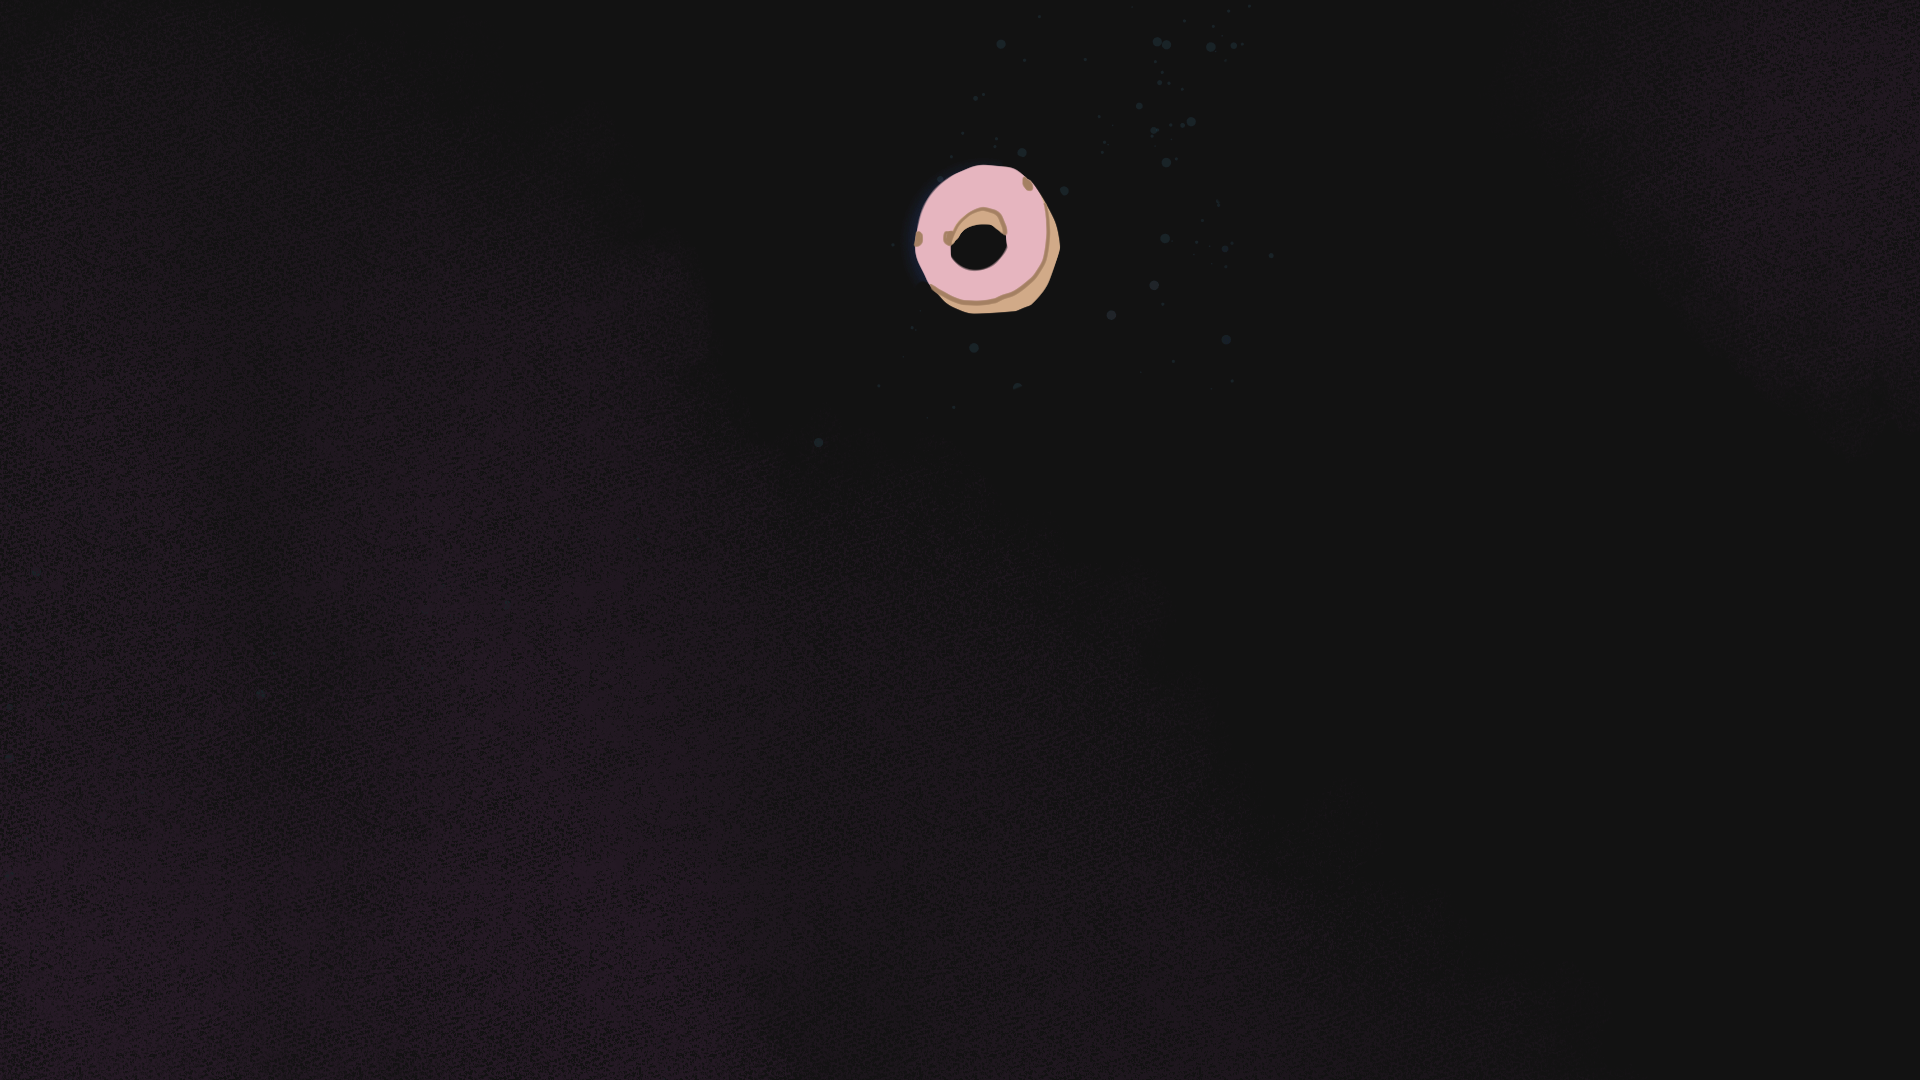
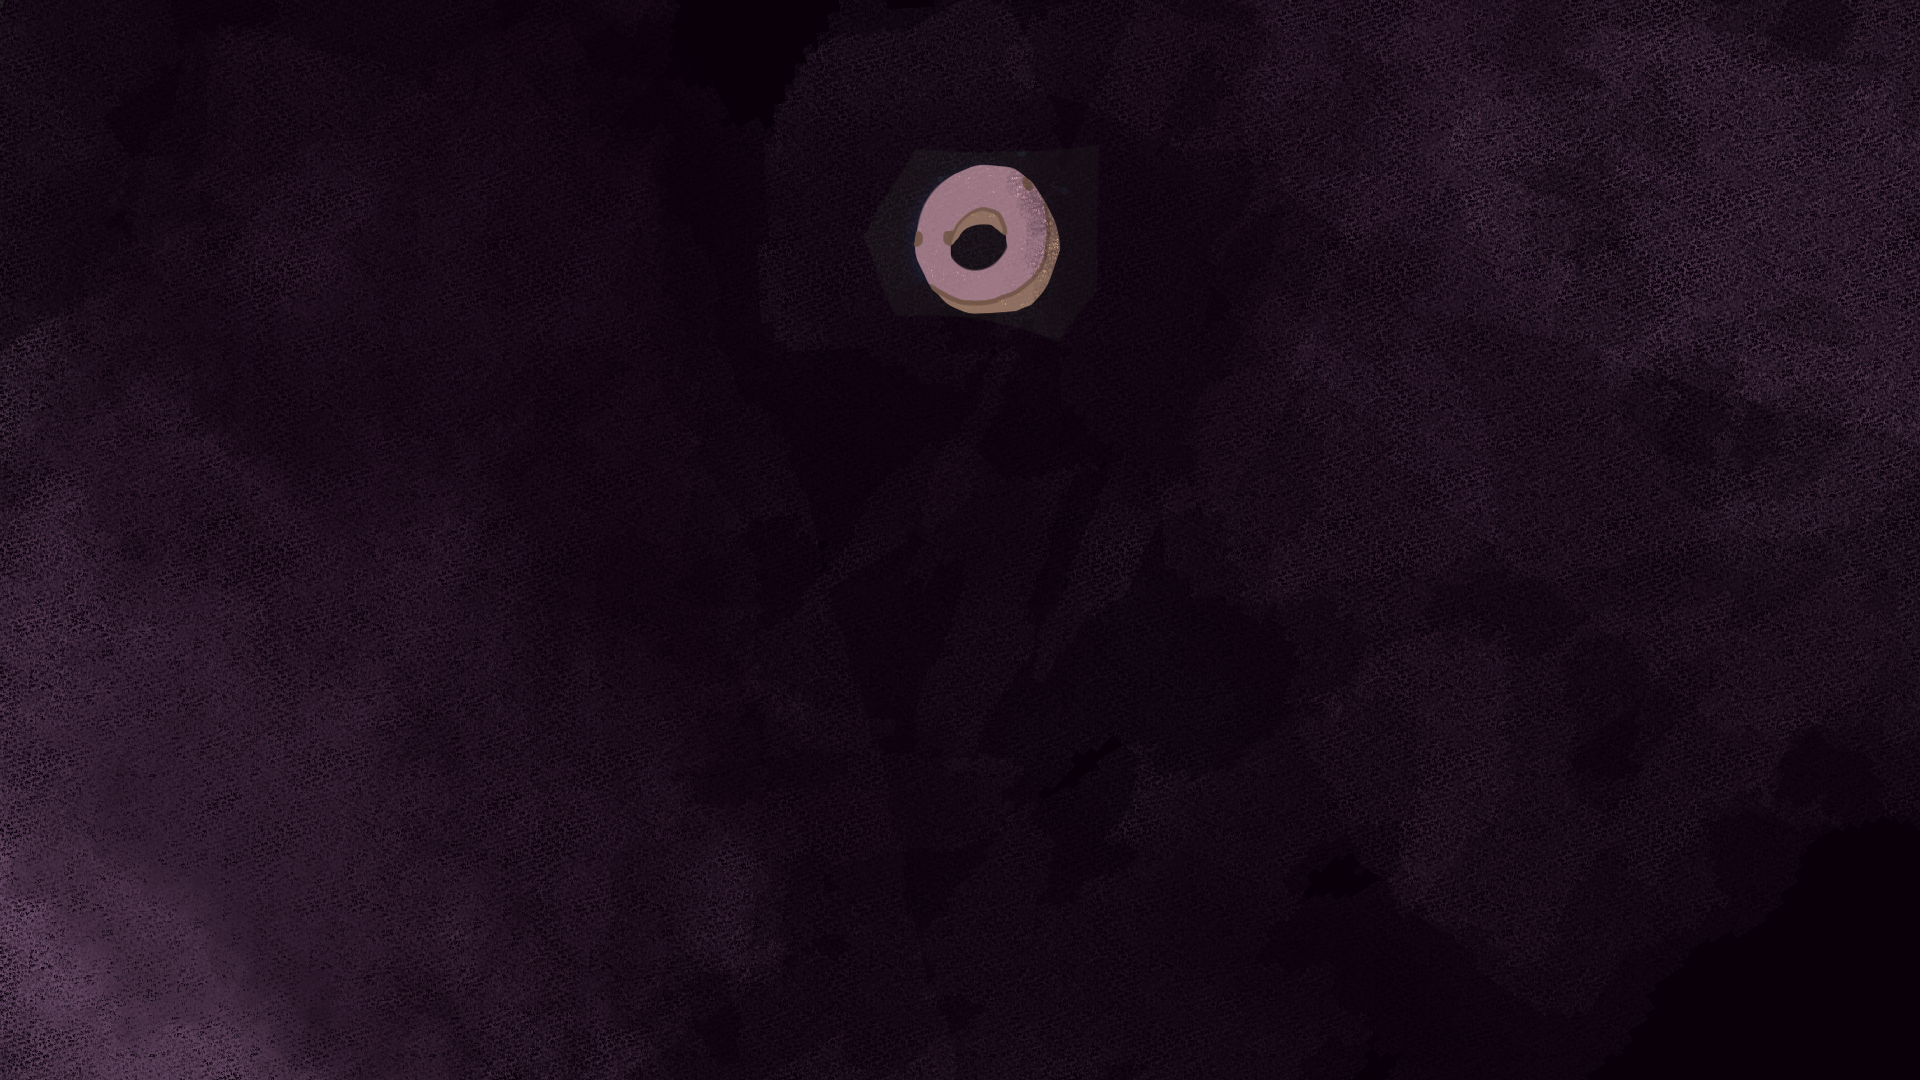
Some edition

diff --git a/src/App.css b/src/App.css
@@ -244,7 +244,7 @@ nav.navbar .navbar-toggler[aria-expanded="true"] .navbar-toggler-icon {
   font-weight: 700;
   letter-spacing: 0.8px;
   padding: 8px 10px;
-  background: linear-gradient(90.21deg, rgba(170, 54, 124, 0.5) -5.91%, rgba(74, 47, 189, 0.5) 111.58%);
+  background: #dfa3ad;
   border: 1px solid rgba(255, 255, 255, 0.5);
   font-size: 20px;
   margin-bottom: 16px;
@@ -391,7 +391,7 @@ nav.navbar .navbar-toggler[aria-expanded="true"] .navbar-toggler-icon {
     position: absolute;
     width: 0;
     height: 100%;
-    background: linear-gradient(90.21deg, #AA367C -5.91%, #4A2FBD 111.58%);
+    background: #dfa3ad;
     top: 0;
     left: 0;
     z-index: -1;
@@ -423,7 +423,7 @@ nav.navbar .navbar-toggler[aria-expanded="true"] .navbar-toggler-icon {
 }
 .proj-imgbx::before {
   content: "";
-  background: linear-gradient(90.21deg, #AA367C -5.91%, #4A2FBD 111.58%);
+  background: #dfa3ad;
   opacity: 0.85;
   position: absolute;
   width: 100%;
@@ -470,7 +470,7 @@ nav.navbar .navbar-toggler[aria-expanded="true"] .navbar-toggler-icon {
 
 /************ Projects Css ************/
 .contact {
-  background: linear-gradient(90.21deg, #AA367C -5.91%, #4A2FBD 111.58%);
+  background: #dfa3ad;
   padding: 60px 0 200px 0;
 }
 .contact img {
@@ -573,7 +573,7 @@ nav.navbar .navbar-toggler[aria-expanded="true"] .navbar-toggler-icon {
 }
 .new-email-bx::before {
   content: "";
-  background: linear-gradient(90.21deg, #AA367C -5.91%, #4A2FBD 111.58%);
+  background: #dfa3ad;
   border-radius: 20px;
   position: absolute;
   z-index: -1;
@@ -602,7 +602,7 @@ nav.navbar .navbar-toggler[aria-expanded="true"] .navbar-toggler-icon {
   padding: 0 15px;
 }
 .new-email-bx button {
-  background: linear-gradient(90.21deg, #AA367C -5.91%, #4A2FBD 111.58%);
+  background: #dfa3ad;
   padding: 20px 65px;
   color: #fff;
   font-weight: 500;

diff --git a/src/components/Skills.js b/src/components/Skills.js
@@ -1,6 +1,6 @@
-import meter1 from "../assets/img/meter1.svg";
-import meter2 from "../assets/img/meter2.svg";
-import meter3 from "../assets/img/meter3.svg";
+import meter1 from "../assets/img/capybara-hamburger.svg";
+import meter2 from "../assets/img/capybara.svg";
+import meter3 from "../assets/img/capybara-cricut.svg";
 import Carousel from 'react-multi-carousel';
 import 'react-multi-carousel/lib/styles.css';
 import arrow1 from "../assets/img/arrow1.svg";
@@ -35,7 +35,7 @@ export const Skills = () => {
                 <div className="col-12">
                     <div className="skill-bx wow zoomIn">
                         <h2>Skills</h2>
-                        <p>Lorem Ipsum is simply dummy text of the printing and typesetting industry.<br></br> Lorem Ipsum has been the industry's standard dummy text.</p>
+                        <p>Experienced with the following programming languages and technologies: PHP, C, R, Java, Python, SQL, PostgreSQL, HTML, CSS, JavaScript, React, Git, GitHub, jQuery, VS code, Postman, ChatGPT</p>
                         <Carousel responsive={responsive} infinite={true} className="owl-carousel owl-theme skill-slider">
                             <div className="item">
                                 <img src={meter1} alt="Image" />

diff --git a/src/components/Projects.js b/src/components/Projects.js
@@ -51,7 +51,7 @@ export const Projects = () => {
               {({ isVisible }) =>
               <div className={isVisible ? "animate__animated animate__fadeIn": ""}>
                 <h2>Projects</h2>
-                <p>Lorem Ipsum is simply dummy text of the printing and typesetting industry. Lorem Ipsum has been the industry's standard dummy text ever since the 1500s, when an unknown printer took a galley of type and scrambled it to make a type specimen book.</p>
+                <p>User-Centric Web Portal Development</p>
                 <Tab.Container id="projects-tabs" defaultActiveKey="first">
                   <Nav variant="pills" className="nav-pills mb-5 justify-content-center align-items-center" id="pills-tab">
                     <Nav.Item>
